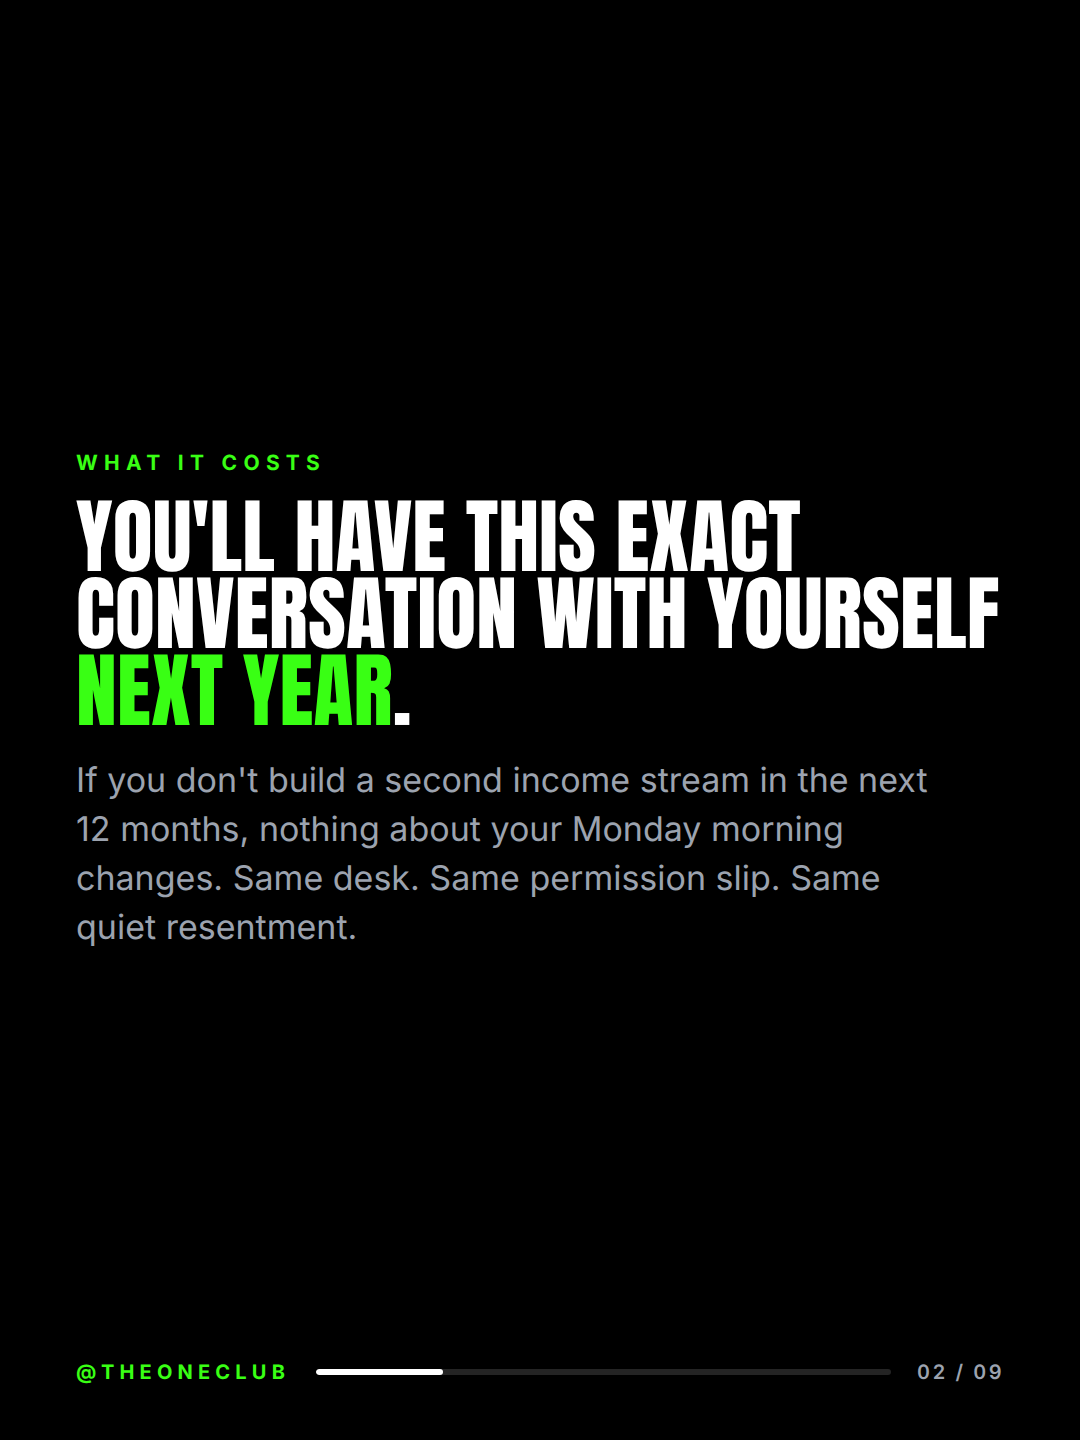
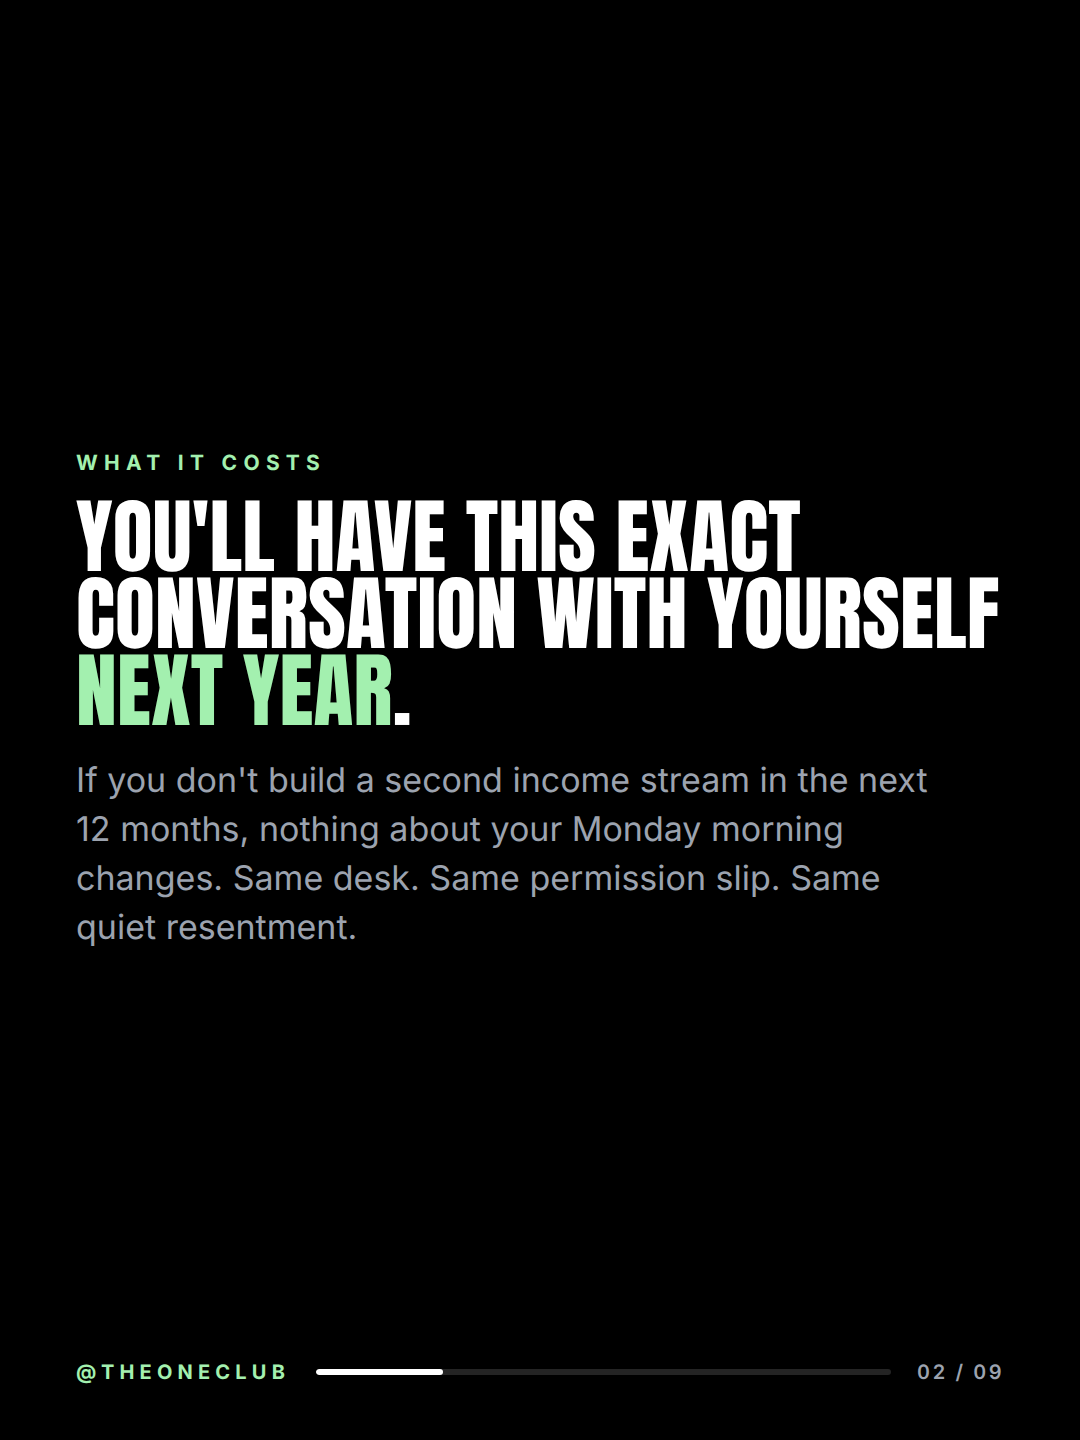
Swap carousel primary green to #a3f0af
Matches the soft mint already used in the app's components. Updated the token,
both derived alphas, the no-artwork scrim tint, the grid preview palette and
the design spec, then re-rendered the reference deck.

Claude-Session: https://claude.ai/code/session_014X2RWXJoqqNcRyFTvtx1Y2

diff --git a/oneclub-carousel-studio/ds-bundle-morphe/tokens.css b/oneclub-carousel-studio/ds-bundle-morphe/tokens.css
@@ -9,7 +9,7 @@
   /* Core palette — locked */
   --black:      #000000; /* background — pure black, no gradients */
   --card:       #111111; /* card fill */
-  --green:      #39FF14; /* primary — headlines, CTAs, active elements, borders */
+  --green:      #a3f0af; /* primary — headlines, CTAs, active elements, borders */
   --green-soft: #4ADE80; /* soft accent */
   --yellow:     #FFD700; /* CTA / comment-trigger callout */
   --white:      #FFFFFF; /* body text */
@@ -18,8 +18,8 @@
 
   /* Derived — allowed, because they are the locked colours at alpha */
   --card-soft:  #0e0e0e;
-  --green-10:   rgba(57, 255, 20, 0.10);
-  --green-24:   rgba(57, 255, 20, 0.24);
+  --green-10:   rgba(163, 240, 175, 0.10);
+  --green-24:   rgba(163, 240, 175, 0.24);
   --yellow-12:  rgba(255, 215, 0, 0.12);
   --white-06:   rgba(255, 255, 255, 0.06);
   --white-10:   rgba(255, 255, 255, 0.10);

diff --git a/oneclub-carousel-studio/output/2026-07-27-permission-slip/grid.html b/oneclub-carousel-studio/output/2026-07-27-permission-slip/grid.html
@@ -5,7 +5,7 @@
 <title>permission-slip — grid preview</title>
 <link rel="stylesheet" href="../../ds-bundle-morphe/fonts/fonts.css">
 <style>
-  :root { --green:#39FF14; --yellow:#FFD700; --grey:#9CA3AF; --dim:#1f2937; }
+  :root { --green:#a3f0af; --yellow:#FFD700; --grey:#9CA3AF; --dim:#1f2937; }
   * { box-sizing: border-box; }
   body { margin:0; background:#000; color:#fff; font-family:'Inter',system-ui,sans-serif; padding:48px 40px 96px; }
   h1 { font-size:22px; letter-spacing:.24em; text-transform:uppercase; margin:0 0 6px; }

diff --git a/oneclub-carousel-studio/ds-bundle-morphe/carousel.css b/oneclub-carousel-studio/ds-bundle-morphe/carousel.css
@@ -48,7 +48,7 @@ html, body {
 }
 /* no artwork yet: keep the composition, lose the mud */
 .slide--noart .scrim {
-  background: radial-gradient(120% 80% at 50% 6%, rgba(57,255,20,0.08) 0%, rgba(0,0,0,0) 62%);
+  background: radial-gradient(120% 80% at 50% 6%, rgba(163,240,175,0.08) 0%, rgba(0,0,0,0) 62%);
 }
 
 /* ---------- body ---------- */

diff --git a/oneclub-carousel-studio/ds-bundle-morphe/design-spec.md b/oneclub-carousel-studio/ds-bundle-morphe/design-spec.md
@@ -30,7 +30,7 @@ site. If the site diverges, `tokens.css` is the file to edit.
 |---|---|---|
 | `--black` | `#000000` | Background |
 | `--card` | `#111111` | Row cards, stat panels |
-| `--green` | `#39FF14` | Primary: kickers, headline accents, row accents, footer handle |
+| `--green` | `#a3f0af` | Primary: kickers, headline accents, row accents, footer handle |
 | `--green-soft` | `#4ADE80` | Third accent in the row cycle |
 | `--yellow` | `#FFD700` | Highlight boxes, action pills, second accent in the cycle |
 | `--white` | `#FFFFFF` | Headlines, pull lines, progress fill |
